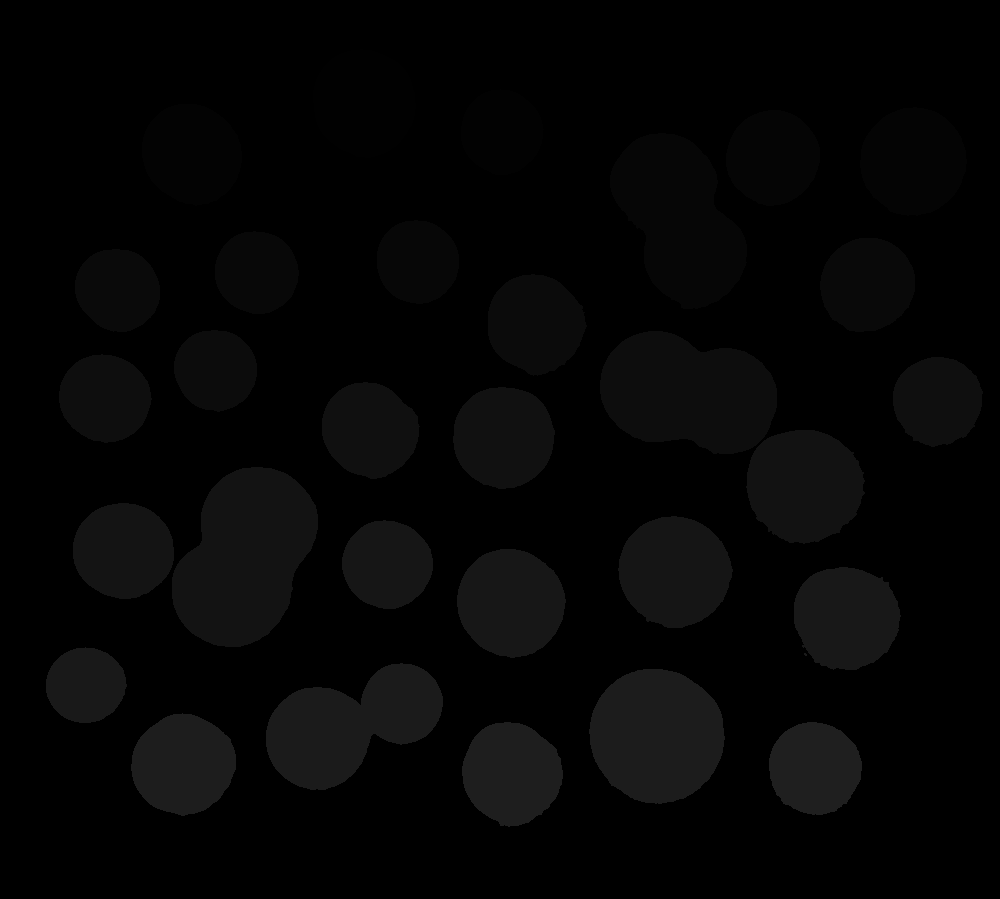
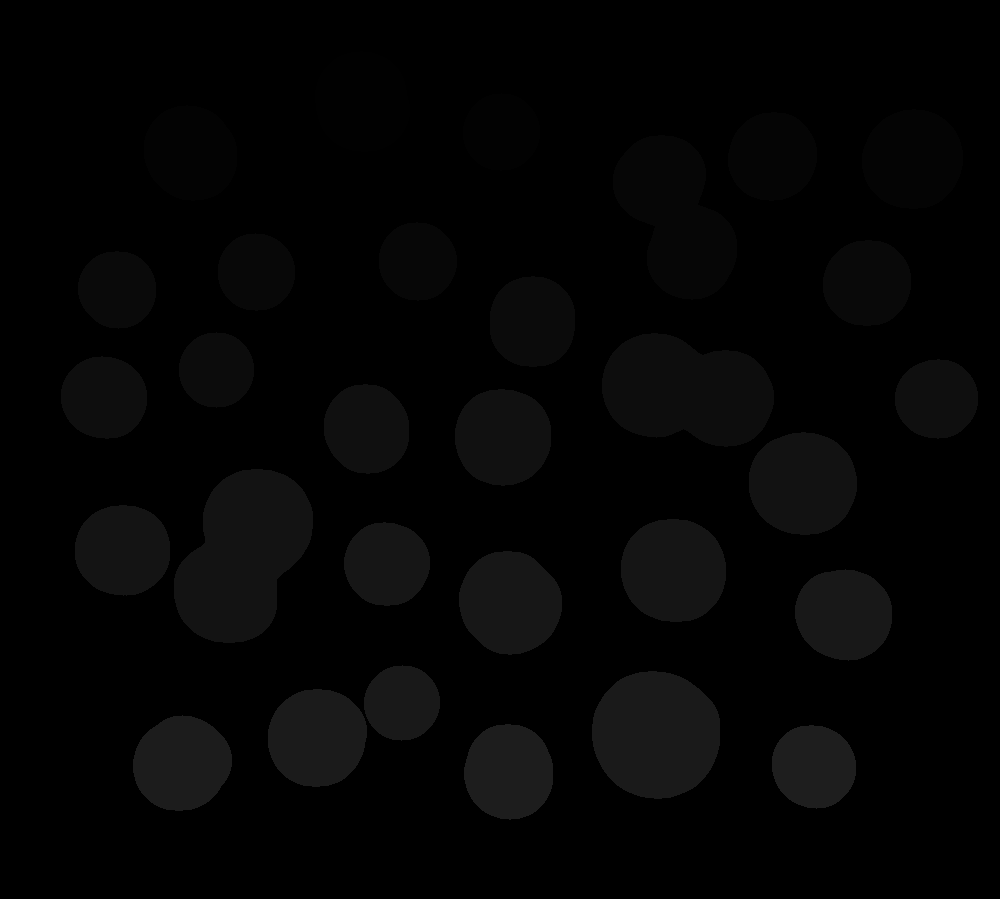
Alterações letra A/B

diff --git a/python_code/letterB.py b/python_code/letterB.py
@@ -1,102 +1,60 @@
 # RESOLUÇÃO DA LETRA B
 
+from imghdr import what
 import numpy as np
-import cv2 as cv
 import matplotlib.pyplot as plt
+import cv2 as cv
     
-def remove_background(img, gaussianBlur_img, what_img):
-    mask_name = 0
-    mask_img = []
-    final_img = []
+def remove_background(img,  what_img):
+    # CASO PARA A 2A IMAGEM
+    if(what_img == 2):
+        canny_img = cv.Canny(img, 100, 0)
+        
+        kernel = cv.getStructuringElement(cv.MORPH_ELLIPSE, [7, 7])
+        canny_img = cv.morphologyEx(canny_img, cv.MORPH_CLOSE, kernel, iterations=2)
+        
+        img = canny_img.copy()
+    # CASO PARA A 3A IMAGEM
+    if(what_img == 3):
+        canny_img = cv.Canny(img, 100, 113)
+        
+        kernel = cv.getStructuringElement(cv.MORPH_ELLIPSE, [3, 3])
+        canny_img = cv.morphologyEx(canny_img, cv.MORPH_CLOSE, kernel, iterations=1)
+        
+        img = canny_img.copy()
     
-    # PARA O CASO DA PRIMEIRA IMAGEM (JÁ LIMIARIZADA E PRECISA APENAS DO MÉTODO CLOSING)
+    img_floodfill = img.copy()
+    height, width = img_floodfill.shape[:2]
+    mask = np.zeros((height+2, width+2), np.uint8)
+    
+    cv.floodFill(img_floodfill, mask, (0, 0), 255)
+    
+    inverse_floodFill = cv.bitwise_not(img_floodfill)    
+    
+    # APRIMORAMENTOS
     if(what_img == 1):
-        kernel = cv.getStructuringElement(cv.MORPH_RECT, [5, 1])
-        erode_img = cv.erode(img, kernel, iterations=1)
+        foreground_img = cv.bitwise_or(img, inverse_floodFill)
+    if(what_img == 2):
+        foreground_img = cv.bitwise_or(img, inverse_floodFill)
+        kernel = cv.getStructuringElement(cv.MORPH_ELLIPSE, [75, 75])
+        foreground_img = cv.morphologyEx(foreground_img, cv.MORPH_OPEN, kernel, iterations=1)
         
-        kernel_2 = cv.getStructuringElement(cv.MORPH_CROSS, [25, 25])
-        closing_Eimg = cv.morphologyEx(erode_img, cv.MORPH_CLOSE, kernel_2)
-        
-        kernel_3 = cv.getStructuringElement(cv.MORPH_ELLIPSE, [7, 7])
-        erode_CEimg = cv.erode(closing_Eimg, kernel_3, iterations=1)
- 
-        bitwise_img = cv.bitwise_or(img, erode_CEimg, mask=None)
-        
-        kernel_4 = cv.getStructuringElement(cv.MORPH_RECT, [1, 8])
-        
-        mask_name = "bolhas_mask.png"
-        final_img = cv.morphologyEx(bitwise_img, cv.MORPH_CLOSE, kernel_4)
-        mask_img = final_img.copy()
-                
-        plt.figure('bolhas.png')
-        
-        plt.subplot(2, 3, 1), plt.title('img'), plt.axis('OFF'), plt.plot(), plt.imshow(img, cmap='gray')
-        plt.subplot(2, 3, 2), plt.title('erode_img'), plt.axis('OFF'), plt.plot(), plt.imshow(erode_img, cmap='gray')
-        plt.subplot(2, 3, 3), plt.title('closing_Eimg'), plt.axis('OFF'), plt.plot(), plt.imshow(closing_Eimg, cmap='gray')
-        
-        plt.subplot(2, 3, 4), plt.title('erode_CEimg'), plt.axis('OFF'), plt.plot(), plt.imshow(erode_CEimg, cmap='gray')
-        plt.subplot(2, 3, 5), plt.title('bitwise_img'), plt.axis('OFF'), plt.plot(), plt.imshow(bitwise_img, cmap='gray')
-        plt.subplot(2, 3, 6), plt.title('final_image'), plt.axis('OFF'), plt.plot(), plt.imshow(final_img, cmap='gray')
-        
-        plt.show()      
+        kernel2 = cv.getStructuringElement(cv.MORPH_ELLIPSE, [3, 3])
+        foreground_img = cv.erode(foreground_img, kernel2, iterations=2)
+        foreground_img = cv.morphologyEx(foreground_img, cv.MORPH_OPEN, kernel)
+    if(what_img == 3):
+        kernel = cv.getStructuringElement(cv.MORPH_ELLIPSE, [3, 3])
+        inverse_floodFill = cv.morphologyEx(inverse_floodFill, cv.MORPH_OPEN, kernel, iterations=2)
+        inverse_floodFill = cv.dilate(inverse_floodFill, kernel, iterations=1)
+       
+        foreground_img = inverse_floodFill.copy()
     
-    # ... SEGUNDA IMAGEM (USO DO CANNY PARA DETECTAR AS BORDAS DA MOEDA BRANCA, OP. MORFOLÓGICOS E BITWISE)
-    elif(what_img == 2):
-        canny_img = cv.Canny(gaussianBlur_img, 100, 0)
-        threshold, thresh_img = cv.threshold(gaussianBlur_img, 0, 255, cv.THRESH_OTSU + cv.THRESH_BINARY_INV)
-        bitwise_img = cv.bitwise_xor(canny_img, thresh_img, mask=None)
-        
-        kernel = cv.getStructuringElement(cv.MORPH_ELLIPSE, [19, 19])
-        closing_BCimg = cv.morphologyEx(bitwise_img, cv.MORPH_CLOSE, kernel)
-        
-        kernel_2 = cv.getStructuringElement(cv.MORPH_ELLIPSE, [75, 75])
-        opening_Cimg = cv.morphologyEx(closing_BCimg, cv.MORPH_OPEN, kernel_2)
-        
-        bitwise_TOimg = cv.bitwise_xor(thresh_img, opening_Cimg, mask=None)
-        bitwise_OBimg = cv.bitwise_or(opening_Cimg, bitwise_TOimg, mask=None)
     
-        mask_name = "coins-01_mask.png" 
-        mask_img = bitwise_OBimg.copy()
-        final_img = cv.bitwise_and(img, img, mask=bitwise_OBimg)
-        
-        plt.figure('coins-01.png')
-        
-        plt.subplot(3, 3, 1), plt.title('gaussianBlur_img'), plt.axis('OFF'), plt.plot(), plt.imshow(gaussianBlur_img, cmap='gray')
-        plt.subplot(3, 3, 2), plt.title('canny_img'), plt.axis('OFF'), plt.plot(), plt.imshow(canny_img, cmap='gray')
-        plt.subplot(3, 3, 3), plt.title('thresh_img'), plt.axis('OFF'), plt.plot(), plt.imshow(thresh_img, cmap='gray')
-        
-        plt.subplot(3, 3, 4), plt.title('bitwise_img'), plt.axis('OFF'), plt.plot(), plt.imshow(bitwise_img, cmap='gray')
-        plt.subplot(3, 3, 5), plt.title('closing_img'), plt.axis('OFF'), plt.plot(), plt.imshow(closing_BCimg, cmap='gray')
-        plt.subplot(3, 3, 6), plt.title('opening_img'), plt.axis('OFF'), plt.plot(), plt.imshow(opening_Cimg, cmap='gray')
-        
-        plt.subplot(3, 3, 7), plt.title('bitwise_TOimg'), plt.axis('OFF'), plt.plot(), plt.imshow(bitwise_TOimg, cmap='gray')
-        plt.subplot(3, 3, 8), plt.title('bitwise_OBimg'), plt.axis('OFF'), plt.plot(), plt.imshow(bitwise_OBimg, cmap='gray')
-        plt.subplot(3, 3, 9), plt.title('final_img'), plt.axis('OFF'), plt.plot(), plt.imshow(final_img, cmap='gray')
-        
-        plt.show()
-    # ... TERCEIRA IMAGEM (USANDO LIMIAR ADAPTATIVO E O MÉTODO OPENING)
-    elif(what_img == 3):
-        thresh_img = cv.adaptiveThreshold(gaussianBlur_img, 255, cv.ADAPTIVE_THRESH_GAUSSIAN_C, cv.THRESH_BINARY, 199, 3)
-        
-        kernel = cv.getStructuringElement(cv.MORPH_CROSS, [3, 3])
-        opening_img = cv.morphologyEx(thresh_img, cv.MORPH_OPEN, kernel)
-        
-        mask_name = "rice_mask.png"
-        mask_img = opening_img.copy()
-        final_img = cv.bitwise_and(img, img, mask=opening_img)
-        
-        plt.figure('rice.png')
-        
-        plt.subplot(2, 2, 1), plt.title('gaussianBlur_img'), plt.axis('OFF'), plt.plot(), plt.imshow(gaussianBlur_img, cmap='gray')
-        plt.subplot(2, 2, 2), plt.title('thresh_img'), plt.axis('OFF'), plt.plot(), plt.imshow(thresh_img, cmap='gray')
-        
-        plt.subplot(2, 2, 3), plt.title('opening_img'), plt.axis('OFF'), plt.plot(), plt.imshow(opening_img, cmap='gray')
-        plt.subplot(2, 2, 4), plt.title('final_img'), plt.axis('OFF'), plt.plot(), plt.imshow(final_img, cmap='gray')
-        
-        plt.show()
-    else:
-        print('ERROR - RETURNING FUNCTION...')
-        return
-    
-    cv.imwrite('output_images/%s' %(mask_name), mask_img)
-    return final_img
+    plt.subplot(2, 2, 1), plt.title('1'), plt.axis('OFF'), plt.imshow(img, cmap='gray')
+    plt.subplot(2, 2, 2), plt.title('2'), plt.axis('OFF'), plt.imshow(img_floodfill, cmap='gray')
+    plt.subplot(2, 2, 3), plt.title('3'), plt.axis('OFF'), plt.imshow(inverse_floodFill, cmap='gray')
+    plt.subplot(2, 2, 4), plt.title('4'), plt.axis('OFF'), plt.imshow(foreground_img, cmap='gray')
+
+    plt.show()
+
+    return foreground_img

diff --git a/python_code/main.py b/python_code/main.py
@@ -1,6 +1,6 @@
 import numpy as np
-import cv2 as cv
 import matplotlib.pyplot as plt
+import cv2 as cv
 
 import letterB as b
 import letterC as c
@@ -13,7 +13,6 @@ img3 = cv.imread('test_images/' + 'rice.png')[:,:,::-1]
 
 # LETRA A: REMOVENDO RUÍDO DA IMAGEM PELO FILTRO GAUSSIANO
 gray_img = cv.cvtColor(img, cv.COLOR_RGBA2GRAY)
-gaussianBlur_img = cv.GaussianBlur(gray_img, [7, 7], 0)
 
 gray_img2 = cv.cvtColor(img2, cv.COLOR_RGBA2GRAY)
 gaussianBlur_img2 = cv.GaussianBlur(gray_img2, [7, 7], 0)
@@ -25,7 +24,6 @@ plt.figure('images')
 
 plt.subplot(3, 3, 1), plt.title('img'), plt.axis('OFF'), plt.imshow(img)
 plt.subplot(3, 3, 2), plt.title('gray_img'), plt.axis('OFF'), plt.imshow(gray_img, cmap='gray')
-plt.subplot(3, 3, 3), plt.title('gaussianBlur_img'), plt.axis('OFF'), plt.imshow(gaussianBlur_img, cmap='gray')
 
 plt.subplot(3, 3, 4), plt.title('img2'), plt.axis('OFF'), plt.imshow(img2)
 plt.subplot(3, 3, 5), plt.title('gray_img2'), plt.axis('OFF'), plt.imshow(gray_img2, cmap='gray')
@@ -37,25 +35,28 @@ plt.subplot(3, 3, 9), plt.title('gaussianBlur_img3'), plt.axis('OFF'), plt.imsho
 
 plt.show()
 
-cv.imwrite('test_images/gaussianBlur_bolhas.png', gaussianBlur_img)
 cv.imwrite('test_images/gaussianBlur_coins-01.png', gaussianBlur_img2)
 cv.imwrite('test_images/gaussianBlur_rice.png', gaussianBlur_img3)
 
 # B: RESPONSÁVEL EM REMOVER O FUNDO DA IMAGEM.
-noBackground_img = b.remove_background(img, False, 1)
-noBackground_img2 = b.remove_background(img2, gaussianBlur_img2, 2)
-noBackground_img3 = b.remove_background(img3, gaussianBlur_img3, 3)
+mask_img = b.remove_background(gray_img, 1)
+cv.imwrite('output_images/bolhas_result.png', mask_img)
 
-noBackground_img = cv.cvtColor(noBackground_img, cv.COLOR_RGBA2BGRA)
-noBackground_img2 = cv.cvtColor(noBackground_img2, cv.COLOR_RGB2BGR)
-noBackground_img3 = cv.cvtColor(noBackground_img3, cv.COLOR_RGBA2BGRA)
+mask_img2 = b.remove_background(gaussianBlur_img2, 2)
+foreground_img2 = cv.bitwise_and(img2, img2, mask=mask_img2)
+foreground_img2 = cv.cvtColor(foreground_img2, cv.COLOR_RGBA2BGRA)
+cv.imwrite('output_images/coins-01_result.png', foreground_img2)
+cv.imwrite('output_images/coins-01_mask.png', mask_img2)
 
-cv.imwrite('output_images/bolhas_result.png', noBackground_img)
-cv.imwrite('output_images/coins-01_result.png', noBackground_img2)
-cv.imwrite('output_images/rice_result.png', noBackground_img3)
+mask_img3 = b.remove_background(gaussianBlur_img3, 3)
+foreground_img3 = cv.bitwise_and(img3, img3, mask=mask_img3)
+foreground_img3 = cv.cvtColor(foreground_img3, cv.COLOR_RGBA2BGRA)
+cv.imwrite('output_images/rice_result.png', foreground_img3)
+cv.imwrite('output_images/rice_mask.png', mask_img3)
+
 
 # C: FAZ A ROTULAÇÃO DE OBJETOS CONECTADOS POR BUSCA E LARGURA
-thresh_img =  cv.imread('test_images/bolhas.png')
+thresh_img =  cv.imread('output_images/bolhas_result.png')
 thresh_img2 =  cv.imread('output_images/coins-01_mask.png')
 thresh_img3 =  cv.imread('output_images/rice_mask.png')
 
@@ -72,6 +73,6 @@ cv.imwrite('output_images/coins-01_labeling.png', label_img2)
 cv.imwrite('output_images/rice_labeling.png', label_img3)
 
 # E: UTILIZA O HISTOGRAMA DA IMAGEM ROTULADA E MOSTRA A AREA EM PIXEL DE CADA OBJ
-print("In label_img:\n"), e.generate_histogram(label_img)
+print("In labsel_img:\n"), e.generate_histogram(label_img)
 print("\nIn label_img2:\n"), e.generate_histogram(label_img2)
 print("\nIn label_img3:\n"), e.generate_histogram(label_img3)

diff --git a/python_code/letterD.py b/python_code/letterD.py
@@ -1,0 +1,33 @@
+import cv2 as cv
+import matplotlib.pyplot as plt
+import numpy as np
+
+def generate_core_map(img):
+    # cv.imshow('img', img)
+    # cv.waitKey(0)
+
+    maximum_value = np.max(img)
+    hue = 0
+    range_hue = 0
+    
+    spaceColor_value = []
+    arr_color = []
+    
+    hsv_img = cv.cvtColor(img, cv.COLOR_RGB2HSV)
+    
+    for i in range(maximum_value):
+        if(hue <= 180):
+            hue += range_hue
+            spaceColor_value= (hue, 255, 255)
+            range_hue = int(np.floor(180 / maximum_value))
+            arr_color.append(spaceColor_value)
+            
+    for i in range(hsv_img.shape[0]):
+        for j in range(hsv_img.shape[1]):
+            p = (i, j)
+            
+            if(hsv_img[i, j, 2] > 0):
+                hsv_img[i, j] = [int(0 * 180), int(255 * 255), int(255 * 255)]
+                print(hsv_img[p])
+    cv.imshow('img', hsv_img)
+    cv.waitKey(0)

diff --git a/python_code/letterC.py b/python_code/letterC.py
@@ -1,8 +1,8 @@
 # RESOLUÇÃO DA LETRA C
 
 import numpy as np
-import cv2 as cv
 import matplotlib.pyplot as plt
+import cv2 as cv
 
 # ALGORITMO DE ROTULAGEM DE COMPONENTES CONECTADOS - MÉTODO DE BUSCA POR LARGURA
 # - ENTRADA:    IMAGEM LIMIARIZADA;
